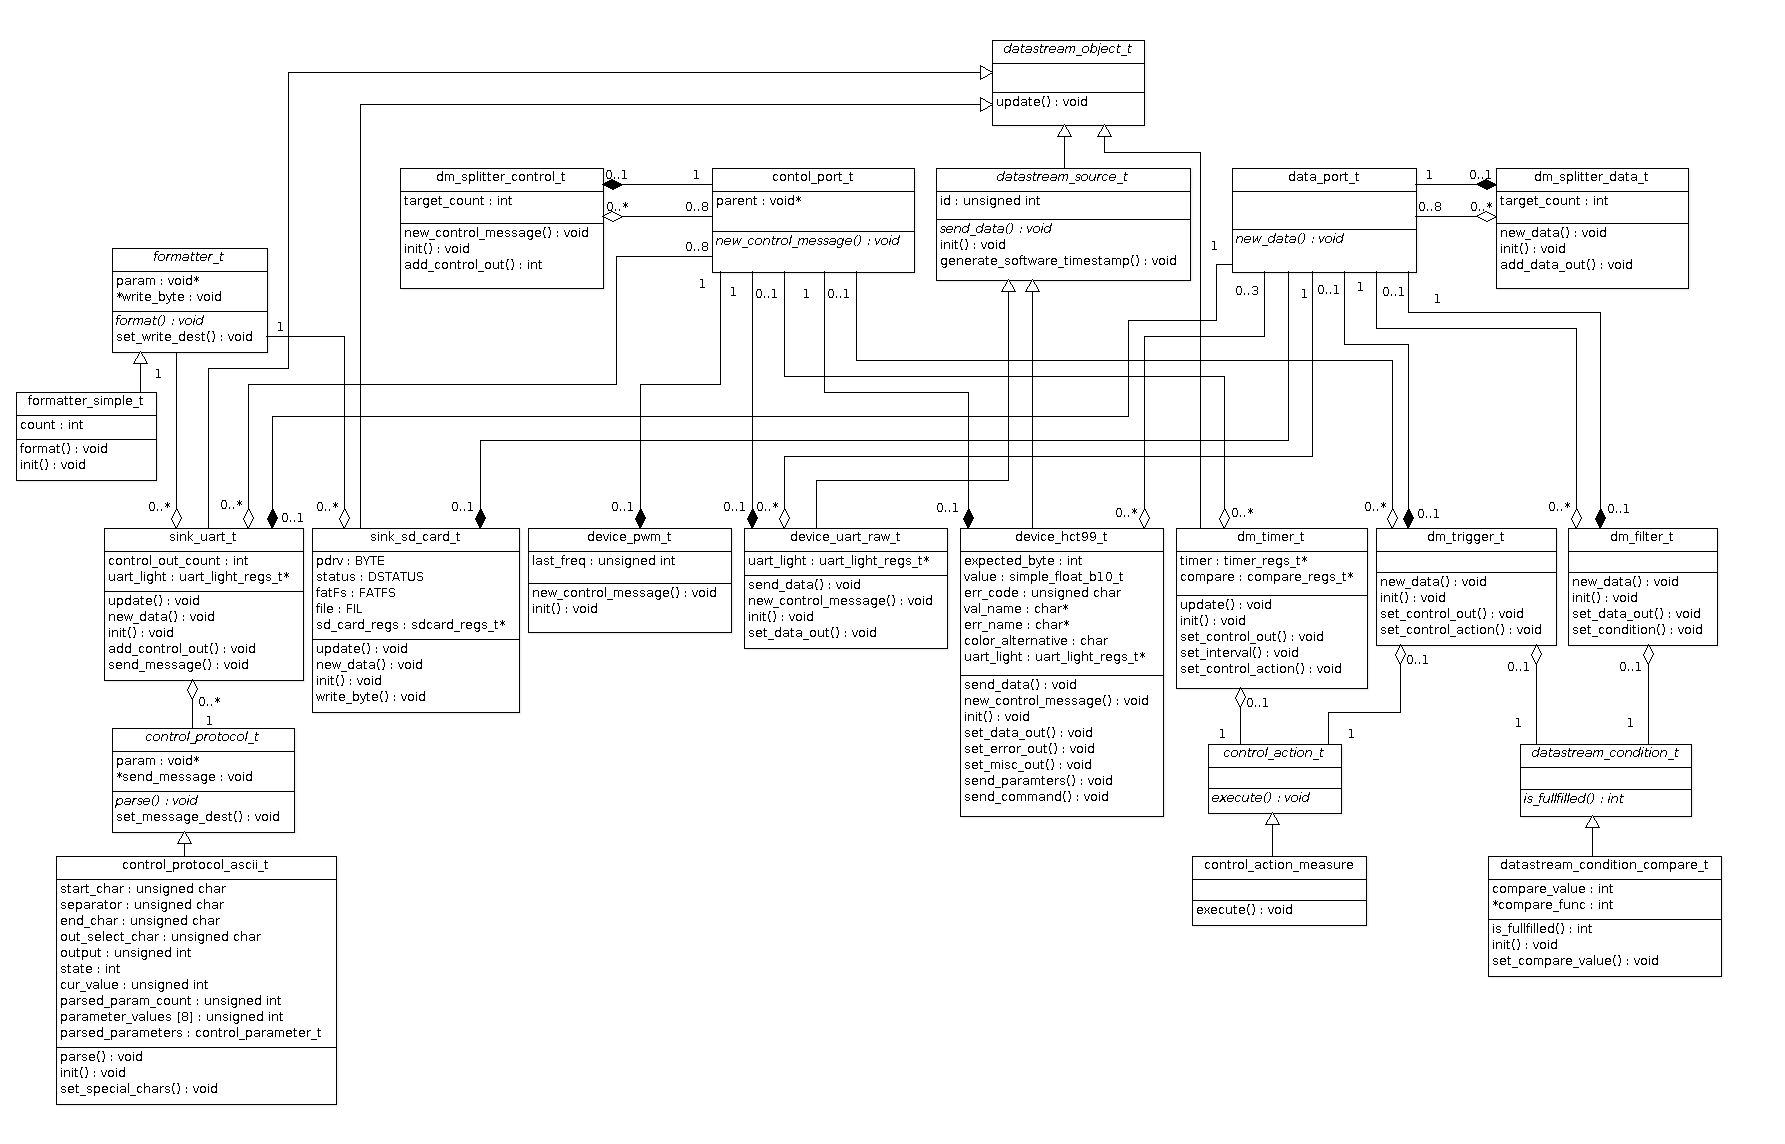
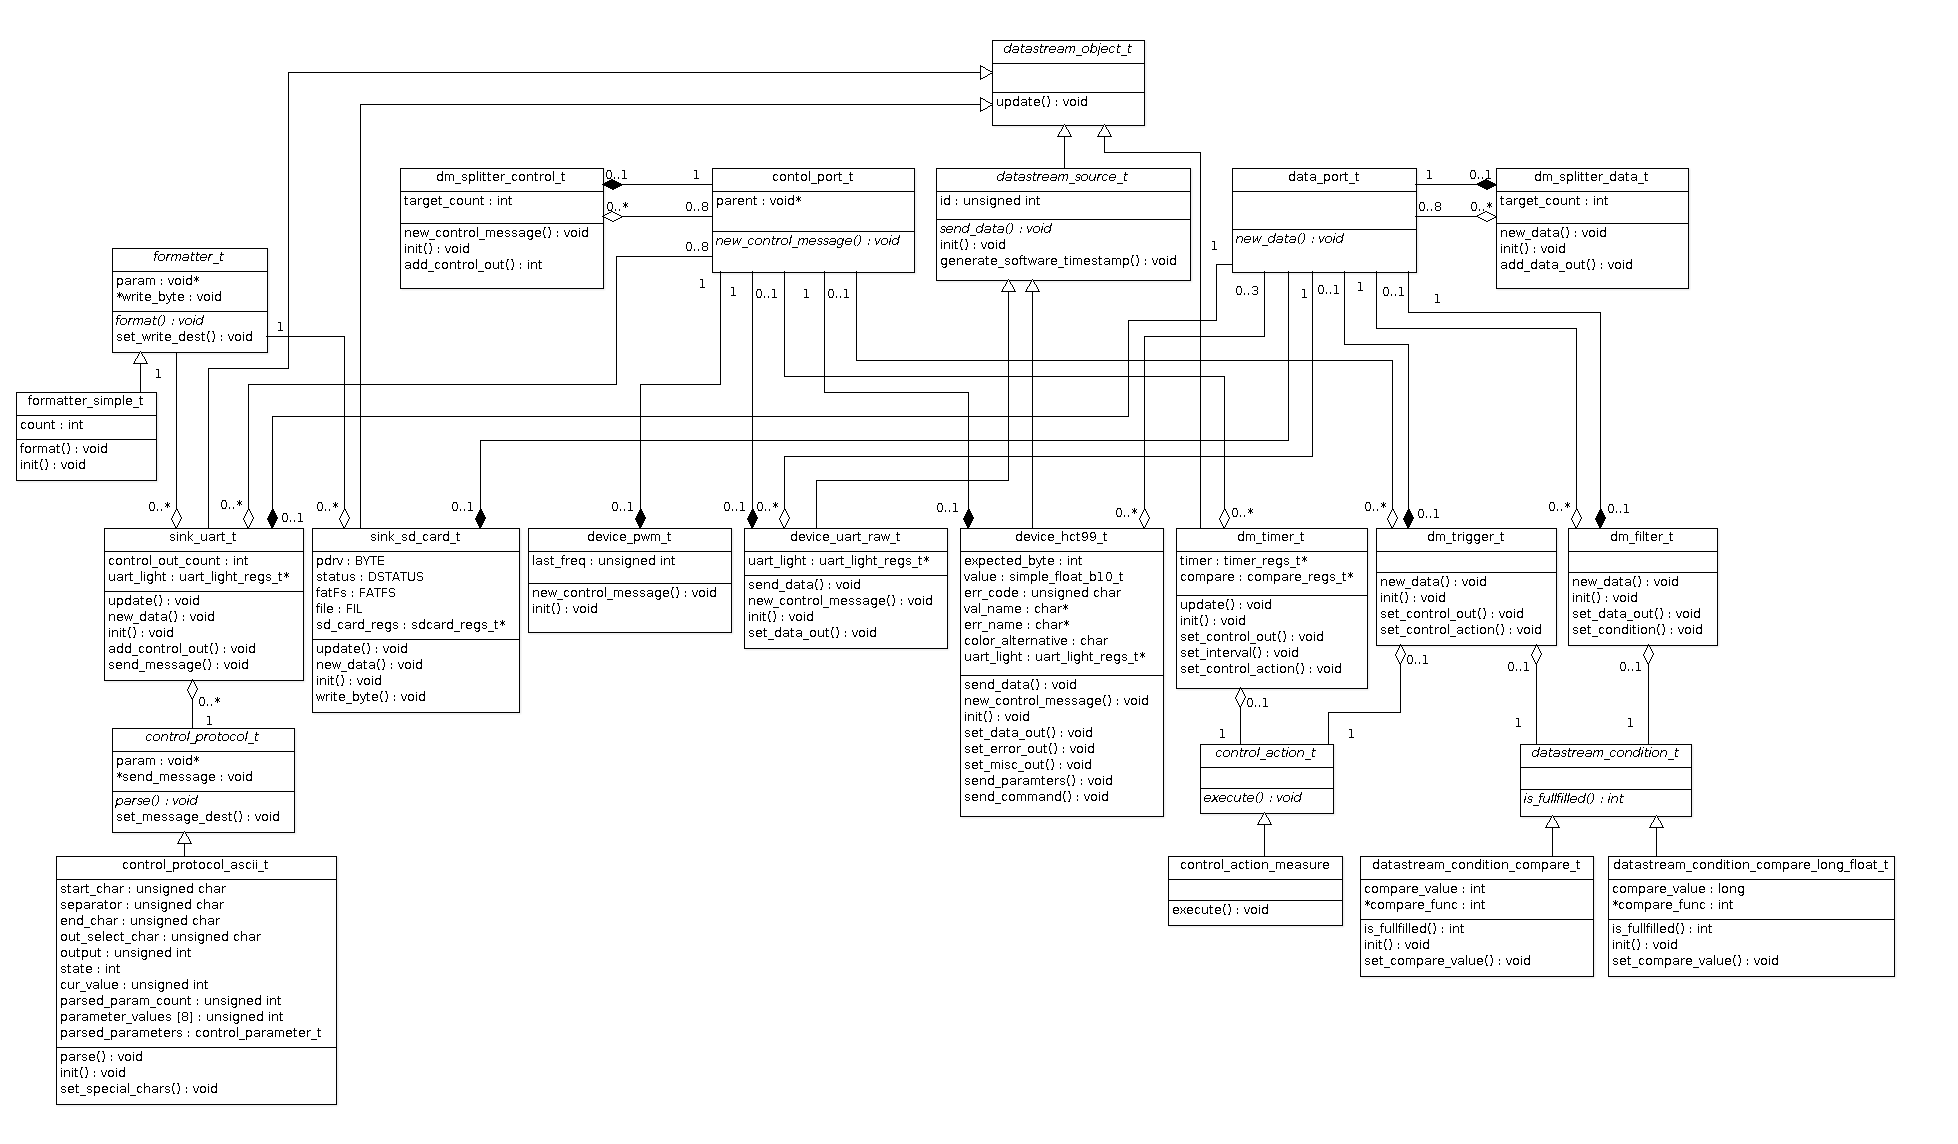
compare condition on long/simple_float_b10

diff --git a/source/include/dm/datastream_condition_compare_long_float.h b/source/include/dm/datastream_condition_compare_long_float.h
@@ -1,0 +1,64 @@
+/**
+ * @file datastream_condition_compare_long_float.h
+ * @brief datastream compare conditions for long or simple_float_b10 (equal, smaller, greater,..)
+ *
+ * This can be used for example as trigger or filter conditions.
+ * The new value is compared with a reference value.
+ *
+ * @author Carsten Bruns (bruns@lichttechnik.tu-darmstadt.de)
+ */
+
+#ifndef DATASTREAM_CONDITION_COMPARE_LONG_FLOAT_H_
+#define DATASTREAM_CONDITION_COMPARE_LONG_FLOAT_H_
+
+#include "dm/datastream_condition.h"
+
+/**
+ * @brief struct defining a compare condition on long or simple_float_b10
+ */
+typedef struct {
+	datastream_condition_t super; /**< super-"class": datastream_condition_t */
+
+	/**
+	 * compare function which does the actual compare
+	 *
+	 * @param val	the new value
+	 * @param ref	the reference value
+	 * @return 1 if compare is true, otherwise 0
+	 */
+	int (*compare_func)(const long int val, const long int ref);
+	long compare_value; /**< value which is used for the comparison */
+} datastream_condition_compare_long_float_t;
+
+/**
+ * @brief initializes the compare condition
+ *
+ * @param cond			pointer to the compare condition to initialize
+ * @param comp_func	compare function which compares new value with the reference value
+ * @param value			new compare value
+ */
+void datastream_condition_compare_compare_long_float_init(
+		datastream_condition_compare_long_float_t* const cond,
+		int (*compare_func)(const long int val, const long int ref),
+		const long int value);
+
+/**
+ * @brief sets a new compare value of the condition
+ *
+ * @param cond	the condition to modify
+ * @param value	the new value
+ */
+void datastream_condition_compare_compare_long_float_set_compare_value(
+		datastream_condition_compare_long_float_t* const cond, const long int value);
+
+/*
+ * different compare functions
+ */
+int smaller_long(const long int val, const long int ref);
+int greater_long(const long int val, const long int ref);
+int equal_long(const int long val, const long int ref);
+int not_equal_long(const long int val, const long int ref);
+int smaller_equal_long(const long int val, const long int ref);
+int greater_equal_long(const long int val, const long int ref);
+
+#endif

diff --git a/source/src/datastream_condition_compare_long_float.c b/source/src/datastream_condition_compare_long_float.c
@@ -1,0 +1,61 @@
+/**
+ * @file datastream_condition_compare_long_float.c
+ * @brief datastream compare conditions for long or simple_float_b10 (equal, smaller, greater,..)
+ *
+ * This can be used for example as trigger or filter conditions.
+ * The new value is compared with a reference value.
+ *
+ * @author Carsten Bruns (bruns@lichttechnik.tu-darmstadt.de)
+ */
+
+#include "dm/datastream_condition_compare_long_float.h"
+#include "data_port.h"
+
+static int datastream_condition_compare_long_float_is_fullfilled(
+		void* const trigger_condition, const data_package_t* const package) {
+	datastream_condition_compare_long_float_t* cond =
+			(datastream_condition_compare_long_float_t*) trigger_condition;
+
+	switch (package->type) {
+	case DATA_TYPE_SIMPLE_FLOAT:
+	case DATA_TYPE_LONG:
+		return cond->compare_func(*((long*) package->data), cond->compare_value);
+	default:
+		return 0;  //TODO some error when unsupported data in stream
+	}
+}
+
+void datastream_condition_compare_long_float_init(
+		datastream_condition_compare_long_float_t* const cond,
+		int (*compare_func)(const long int val, const long int ref),
+		const long int value) {
+	cond->super.is_fulfilled =
+			datastream_condition_compare_long_float_is_fullfilled;
+
+	cond->compare_func = compare_func;
+	cond->compare_value = value;
+}
+
+void datastream_condition_compare_long_float_set_compare_value(
+		datastream_condition_compare_long_float_t* const cond, const long int value) {
+	cond->compare_value = value;
+}
+
+int smaller_long(const long int val, const long int ref) {
+	return val < ref;
+}
+int greater_long(const long int val, const long int ref) {
+	return val > ref;
+}
+int equal_long(const long int val, const long int ref) {
+	return val == ref;
+}
+int not_equal_long(const long int val, const long int ref) {
+	return val != ref;
+}
+int smaller_equal_long(const long int val, const long int ref) {
+	return val <= ref;
+}
+int greater_equal_long(const long int val, const long int ref) {
+	return val >= ref;
+}
